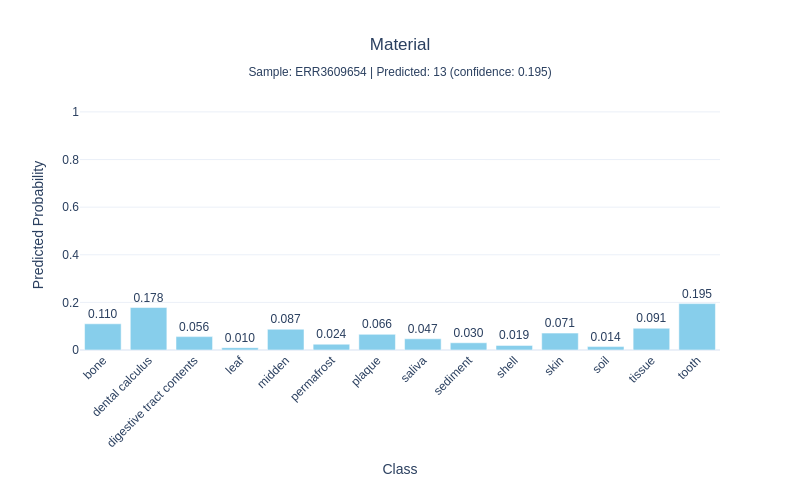
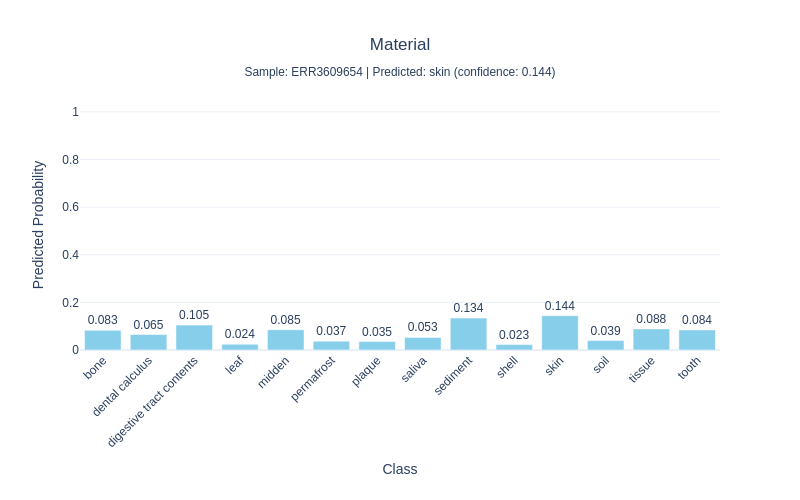
Fix predicted_class label decoding in inference output
03_run_inference.py now loads label_encoders.json and passes class names
to format_predictions(), so the JSON output and plots show human-readable
labels (e.g. 'ancient_metagenome', 'oral') instead of numeric indices.

predict.py updated to pass --label_encoders to step 3.

Updated test_results/ERR3609654/ and images/example_*.png with fresh
output from the 1% subsample (ERR3609654_*_small.fastq.gz).

diff --git a/scripts/inference/03_run_inference.py b/scripts/inference/03_run_inference.py
@@ -181,12 +181,31 @@ def main():
         default='auto',
         help='Device to use for inference (default: auto-detect)'
     )
+
+    parser.add_argument(
+        '--label_encoders',
+        type=Path,
+        default=None,
+        help='Directory containing label_encoders.json (default: same dir as model)'
+    )
     
     args = parser.parse_args()
     
     # Infer sample ID from filename if not provided
     sample_id = args.sample_id or args.input.stem.replace('_unitig_fraction', '')
     
+    # Load label encoders for class name decoding
+    encoders_dir = args.label_encoders if args.label_encoders else args.model.parent
+    encoders_path = encoders_dir / 'label_encoders.json'
+    class_names = None
+    if encoders_path.exists():
+        with open(encoders_path) as f:
+            raw = json.load(f)
+        class_names = {task: info['classes'] for task, info in raw.items()}
+        logger.info(f"Loaded label encoders from {encoders_path}")
+    else:
+        logger.warning(f"label_encoders.json not found at {encoders_path}, using numeric class indices")
+
     # Load model
     logger.info(f"Loading model from {args.model}")
     device = None if args.device == 'auto' else args.device
@@ -200,7 +219,7 @@ def main():
     predictions = predictor.predict(features, return_probabilities=True)
     
     # Format output
-    formatted_preds = format_predictions(predictions)
+    formatted_preds = format_predictions(predictions, class_names=class_names)
     
     output = {
         'sample_id': sample_id,

diff --git a/src/diana/cli/predict.py b/src/diana/cli/predict.py
@@ -322,7 +322,8 @@ def predict_single_sample(
             "--model", str(model_path),
             "--input", str(unitig_fraction),
             "--output", str(predictions_json),
-            "--sample-id", sample_id
+            "--sample-id", sample_id,
+            "--label_encoders", str(model_path.parent)
         ], "Step 3: Running model inference")
         
         # ====================================================================

diff --git a/README.md b/README.md
@@ -78,16 +78,16 @@ cat test_results/ERR3609654/ERR3609654_predictions.json
 Each bar chart shows every class on the y-axis and its predicted probability on the x-axis; the most probable class is highlighted. The `.html` version is fully interactive (hover for exact values). Below are the four charts produced for ERR3609654:
 
 **Sample type** — Is the sample ancient or modern?
-<p align="center"><img src="images/example_sample_type.png" width="70%" alt="Sample type bar chart: Ancient 79%, Modern 21%"/></p>
+<p align="center"><img src="images/example_sample_type.png" width="70%" alt="Sample type bar chart: ancient_metagenome predicted with 73% confidence"/></p>
 
 **Community type** — What microbial community does the sample come from?
-<p align="center"><img src="images/example_community_type.png" width="70%" alt="Community type bar chart: oral community predicted with 63% confidence"/></p>
+<p align="center"><img src="images/example_community_type.png" width="70%" alt="Community type bar chart: soft tissue predicted with 40% confidence"/></p>
 
 **Sample host** — Which host species does the sample originate from?
-<p align="center"><img src="images/example_sample_host.png" width="70%" alt="Sample host bar chart: Homo sapiens predicted with 48% confidence"/></p>
+<p align="center"><img src="images/example_sample_host.png" width="70%" alt="Sample host bar chart: Gorilla sp. predicted with 19% confidence"/></p>
 
 **Material** — What physical material was the sample extracted from?
-<p align="center"><img src="images/example_material.png" width="70%" alt="Material bar chart: dental calculus predicted with 25% confidence"/></p>
+<p align="center"><img src="images/example_material.png" width="70%" alt="Material bar chart: skin predicted with 14% confidence"/></p>
 
 ---
 
